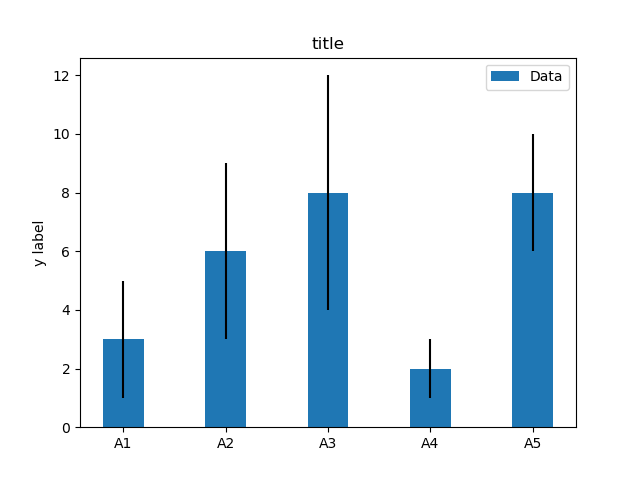
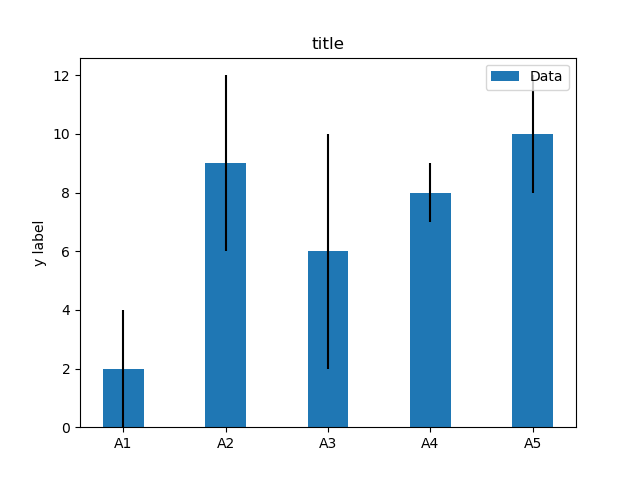
first commit

diff --git a/example.py b/example.py
@@ -2,7 +2,7 @@ import numpy as np
 import matplotlib.pyplot as plt
 
 labels = ['A1', 'A2', 'A3', 'A4', 'A5']
-m_means = [3,6,8,2,8]
+m_means = [2,9,6,8,10]
 m_std = [2, 3, 4, 1, 2]
 width = 0.40       # the width of the bars
 

diff --git a/README.md b/README.md
@@ -1,4 +1,4 @@
-# Matplotlib no 5 
+# Matplotlib no 6 
 
 python example
 
